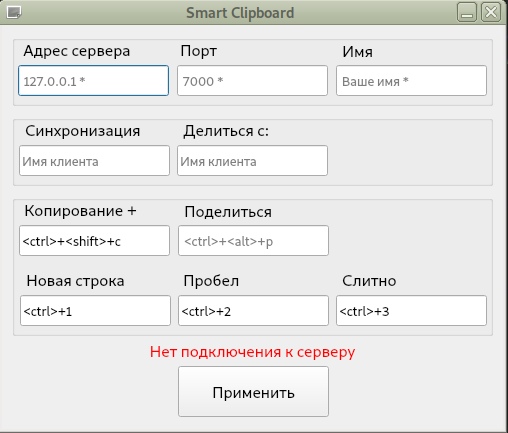
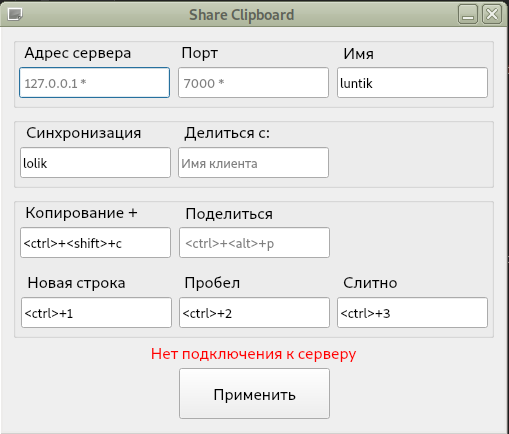
pass

diff --git a/src/gui_qt.py b/src/gui_qt.py
@@ -312,7 +312,7 @@ class UiMainWindow(object):
 
     def retranslateUi(self, MainWindow):
         _translate = QtCore.QCoreApplication.translate
-        MainWindow.setWindowTitle(_translate("MainWindow", "Smart Сlipboard"))
+        MainWindow.setWindowTitle(_translate("MainWindow", "Share Сlipboard"))
         self.ip.setPlaceholderText(_translate("MainWindow", " 127.0.0.1 *"))
         self.port.setPlaceholderText(_translate("MainWindow", " 7000 *"))
         self.label_ip.setText(_translate("MainWindow", "<html><head/><body><p>Адрес сервера</p></body></html>"))

diff --git a/README.MD b/README.MD
@@ -11,15 +11,11 @@
 
 ## Функционал
 
-Приложение позволяет синхронизировать буфер обмена разных операционных систем, и просто делиться содержимым буфера обмена с удаленным
-
-клиентом. (В дальнейшем со списками клиентов)
+Приложение позволяет синхронизировать буфер обмена разных операционных систем, и просто делиться содержимым буфера обмена с удаленным клиентом. (В дальнейшем со списками клиентов)
 
 Функции приложения работают посредством назначения и вызова горячих клавиш.
 
-Имеется возможность соединения скопированного текста с предыдущем копированием с использованием одного из разделителей: 
-
-"новая строка", "пробел" или "слитно"
+Имеется возможность соединения скопированного текста с предыдущем копированием с использованием одного из разделителей: "новая строка", "пробел" или "слитно"
 
 ### Особенности:
 
